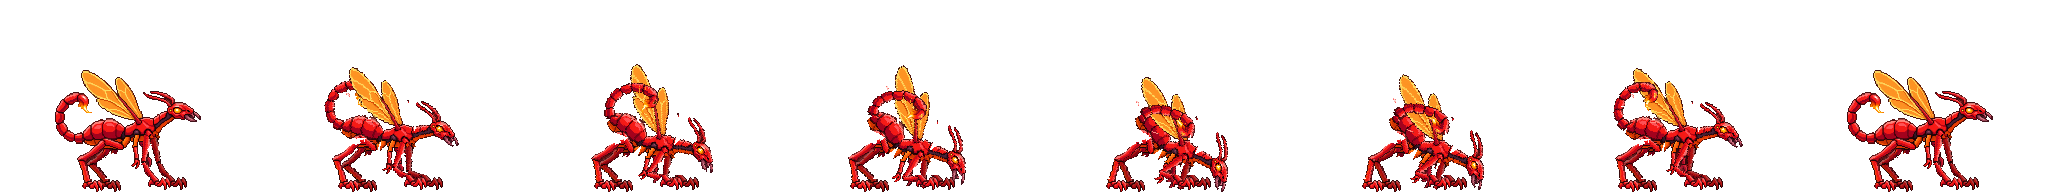
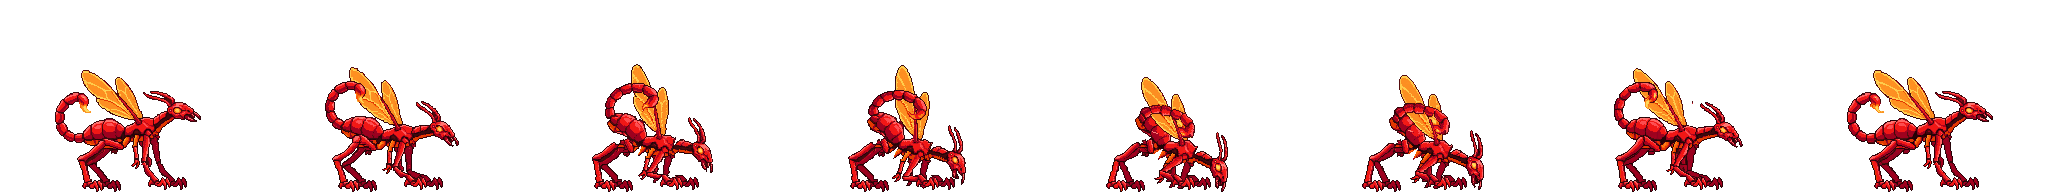
Myrmex light3: the cleaned hissing-cat sting
Swap the raw rig sting for the PixelLab-cleaned strip and document the
light combo and the rig's new jaw, pitch, lean, waist and tail_front.

Claude-Session: https://claude.ai/code/session_01SJ9dCzYTEqnwmvGSao2RYs

diff --git a/README.md b/README.md
@@ -81,7 +81,7 @@ Score is earned points minus actual HP damage penalty, including healed damage. 
 
 **Belial Stage 2 art (just started, the base form):** `belial-s2.png` is the low-slung striped reptile (grey-green hide, dark umber-grey tiger stripes and blade spines down a long tail, green acid gland on the neck, drooling green acid), keyed from the transparent render with `tools/key_render.py` (grid 9.170x9.175 px per art pixel) to a 216x79 sprite at x=20, feet on the bottom row of a 256x192 frame (`BL2_NATIVE`: scale 216/256, anchor 128). As with Mogurodon the Stage 2 design is the base form; Stage 1 and Stage 3 have their own complete forms (below). `belial-s2-idle` (breathing loop, 8 frames, 8 fps, closed on the base) and `belial-s2-walk` (stalking crawl, one full four-leg stride in 16 frames at 15 fps, closed on the base) are PixelLab strips generated from the base, then fill_pinholes/remove_specks. `belial-s2-run` (Shift / double-tap, 8 frames at 15 fps like Tlézcatl's) is a low bounding gallop generated from the base with it as the end pose (seed 7; seed 0 barely left the walk for its first half and threw dust ahead of the snout): the body gathers and stretches, frames 4-5 are a 4-5px flight phase, dust kicks back, the tail streams straight out; then fill_pinholes/remove_specks. Jump (`belial-s2-jump-rise/air/land`, 9 frames at 24 fps, a 4-frame loop at 8 fps, 5 frames at 20 fps like the other forms): rise is a roll from the base (seed 7; seed 0 barely coiled the tail) that crouches, curls the tail up over his back and springs off all four legs into a level, legs-tucked leap. Air is frames 0,1,2,1 of a 4-frame roll from the rise's last frame (seed 0). Land is frames 1-4 of a roll from that same frame with the base as end pose (seed 7): legs reach down with the tail flung up, then he squashes low. Frame 4 already matched the base, and the exact base closes the strip. All three: remove_specks, bottom_align, fill_pinholes. Crouch (5 frames at 22 fps, a 4-frame loop at 6 fps, then the reverse, like the other forms): `belial-s2-crouch-down` is a roll from the base (seed 0) that splays the legs and presses belly and chin flat with the spines laid back and the tail flat, 79px tall down to about 54. `belial-s2-crouch` is a breathing loop lying flat, a roll from that last pose with it as the end pose (seed 7). PixelLab returned a clean 4-frame cycle that starts on the flat pose. `belial-s2-crouch-up` is crouch-down reversed. Cleanup: remove_specks, bottom_align, fill_pinholes. Form width 120. Light combo (`belial-s2-light1..3`, 8 frames each at 24/21/20 fps, `once`): forward claw swipe, backhand rake, and a lunging bite that snaps shut in a puff of acid. They're generated from the base shifted flush left (`BL2_LEFT`, sprite at x=0, anchor 108) for 40px of reach, with the base as first and last frame. Light1 and light3 are re-rolls (seed 45), because the first rolls' slash arc and acid spray were cut off by the right edge of the frame. Then fill_pinholes/remove_specks. Heavy, a scorpion tail strike (`belial-s2-heavy-rear/hold/slam`: 5 frames at 20 fps, a 4-frame loop at 10 fps, 8 frames at 16 fps; 256x256 frames with the left-shifted base): the tail curls up over his back with the blade poised above his head, quivers while K is held, then whips over his head and slashes down in front of the snout. The hold and slam are generated from rear's last frame; the slam ends on the base, and its first frame (a copy of the hold pose) is dropped so the strike starts the moment K is released. The slash's outer edge grazes the frame's right edge on slam frames 2–3. **Palette:** the renders and strips came out salmon-pink with red spines. `tools/belial_recolor.py` (helpers in `tools/recolor_hls.py`) remaps every Belial strip: pink hide (warm hue, saturation under .57) to grey-green, red spines and stripes (saturation .57+) to dark umber-grey, and slash smears to acid green. A smear is a warm region mostly ringed by transparency with almost no black outline; pixels within 2px of outline stay body, so spines swallowed by the tail-strike arc keep their colour. Acid, claws, eye, outline and the tan dust (hue 42) are untouched. New strips are generated from the recoloured base, so they shouldn't need it, but if a PixelLab roll drifts back toward pink, run it through the same script. Acid Vomit art (`belial-s2-vomit-start/aim/end`, registered as `vomitStart`/`vomitAim`/`vomitEnd`; the mechanic isn't wired up yet): start is frames 1, 2, 4, 5 and 8 of a heave-and-gape roll (seed 0, recoloured); the rolls' own acid streams are skipped, since the game draws the stream. Aim is seven gape frames from tucked down to neck raised (a chin-tuck roll and a silent-roar head-raise roll; prompts that mention vomiting make PixelLab draw a stream). Rotation-matching the head didn't work on these (it locks onto the skull and neck, and the mouth opening barely turns as the neck rises), so `angles` [-25,-12,0,8,18,32,45] are set from the head-and-neck pose, and `mouth` is the midpoint of the jaw tips read off a grid. End is a gag-and-snap roll (seed 7) closed on the shifted base. **Acid Vomit (gameplay, `COMBAT.vomit*`/`corrode*` in `src/config.ts`):** Belial's grounded L. It runs on the Flame Jet's state machine (`jet`, with `jetFuel` as his gland pressure), branching where it differs: `spew()` traces a ballistic arc from the mouth point at a launch speed set by the pressure (`vomitSpeed` empty→full), so as the gland drains the arc sags and the landing walks back toward him. Untouched it lobs at `vomitRest` (15°); W/S tilt it from -25° to 55°. The stream pierces troops and aircraft, intercepts rockets, and stops on the first building (wall or roof) or the street, where it splashes (`vomitSplash`) and leaves an acid puddle (`acid` pools). Running the gland dry plays the gag and locks it until `vomitRelight`. Corrosion (`corr` in `game.ts`) stacks per target with contact time (`corrodePerStack`, up to 3); corroded targets take `corrodeDamage` x stacks per tick and `corrodeVuln` x stacks more from every player hit (buildings via `hit()`, units via a `hitUnit` wrapper round military's, the rival via `strikeRival`); tanks and APCs also lose `corrodeArmor`. A fully corroded building gives way at `corrodeBreak` (25%) HP. He walks at `vomitSlow` (half speed) while spewing. Tests: `tests/belial-vomit.test.ts`. Climb (`belial-s2-climb-grab/climb/climb-punch/climb-mantle`, 256x256 with the base padded to 256 tall, `BL2_NATIVE`): gecko cling, body vertical with the head up and the tail hanging to the bottom row, the gripping claws on the wall line at frame x=171 (hitbox edge, 24 world units out at k=120/216). Grab is frames 0-3 and 8 of a rear-and-leap roll (seed 0; seed 7 painted a wall), eased 81px left and 33px down onto the wall line (the vertical ease is capped so feet never leave the frame). The loop (closed on the cling), punch (acid-green flash on impact frame 4, so `impact:4`) and mantle (ends on the base, starts 26px back for the roof slide, 0.3 x 48 units) are seed 0 rolls from the placed cling frame. PixelLab drew thin dark drool streaks and a roof-ledge line, so 1px-wide dark runs (vertical 4+, horizontal 6+) were erased, then fill_pinholes, remove_specks (MAX 6) and optimize_sprites. No recolour needed. Grab/carry/throw in the jaws (`belial-s2-grab/carry/carry-walk/throw`, 256x256 from the left-shifted base, `BL2_LEFT`, so the head has room to whip): the grab (seed 0) gapes, drops the head to the street to bite, and hauls the neck up high with the jaws clamped; carry (strain loop) and carry-walk (one four-leg stalking stride, head held up) loop from that pose; the throw is frames 2-8 of a roll from it (frames 0-1 just held the pose, and the prop launches on the key press): the jaws spring open and the head whips forward and down with an acid-green swing arc that grazes the frame's right edge on frames 2-4, ending on the shifted base. Detached acid drops and street puddles were removed with remove_specks MAX 120 before carry, carry-walk and throw were generated from the lift frame. These strips set `bite`: each `hold` point is where the jaws close (measured on the snout, frames 0-5 on the street), and the game (`holdBite`) grips the prop by its near end there, its centre 0.3 of its own width ahead at mid-height, and never lets it sink below the feet line. A centred prop hid the whole head. **Acid Pounce (his Slam):** art is 256x256 from the base padded 64px on top (`BL2_NATIVE`). `belial-s2-dive` is frames 0, 3, 4 and 6 of an 8-frame roll from the jump-air pose padded the same way (seed 0): he gathers, then tips into a steep nose-down pounce, claws splayed, jaws open, tail whipped up; bottom-aligned, fill_pinholes, remove_specks, held on the last frame. `belial-s2-slam-land` is frames 1-7 of a roll from that plunge with the padded base as end pose (seed 0; seed 7's splash was weaker) plus the exact base: claws and chest hit in an acid splash both ways, a belly-flop with spatter, and he pushes back up; fill_pinholes only, so the droplets survive. Gameplay (`MOVE.pounce*`): on top of the shared slam, everything the landing strikes (roof under him, buildings in the radius, units, the rival) is soaked straight to `pounceStacks` (2) of corrosion, 3 from a `pounceFullPower` drop, applied after the hit so the slam itself isn't boosted; a street landing lays acid puddles across `pouncePoolWidth` x his body width (x power, capped 1.5). Tests in `tests/belial-vomit.test.ts`. **Acid Deluge (Belial's Ultimate, `COMBAT.deluge*`):** art: `belial-s2-ult-charge/roar/pound/settle`, 256x256 frames from the base padded to 256 tall (`BL2_NATIVE`). Charge is 13 frames at 20 fps (= `delugeCharge`, a roll from the base, seed 0): the gland balloons up, he plants and heaves, acid dribbling. Roar is 9 frames at 18 fps from the last charge frame (seed 7; prompted as a silent roar at the sky, so PixelLab draws no stream): he rears straight up onto hind legs and tail, jaws open at the sky, the geyser firing on impact frame 4. Pound is a 4-frame pumping hold closed on the roar's last frame. Settle is frames 2-7 of a roll back to the base plus the exact base (7 frames at 14 fps). `mouth` (135,100) is the red mouth interior's centre nudged up to the jaws. Cleanup: remove_specks, fill_pinholes, bottom_align. Belial's `pound` points at his heavy slam, since S+J otherwise falls back to `ultPound`. Gameplay (`tickDeluge`/`tickRain` in `game.ts`): planted; on the roar's impact frame the geyser goes up and spouts until the settle starts. Every drop is scheduled then: `delugeDrops` spread over the spout, `delugeDelay` later, landing at random out to `delugeRange` x sqrt(stage scale) on alternating sides. Drops fall from the top of the view and hit the topmost thing under them (aircraft, troops, vehicles, growths, the stronghold crystal, the rival), else the roof below, else the street (a `delugeSplash` splash plus a Deluge puddle, capped at `delugePuddleCap` apart from the stream's). Each hit soaks the target with `delugeSoak` corrosion stacks before `delugeDamage` lands, so a building in the downpour is fully corroded within a few drops and gives way at `corrodeBreak`. Deluge corrosion (`ult` on the corrosion record, which a soak also sets on corrosion the stream laid) ticks as Ultimate damage, so nothing it eats or knocks down refills the meter. The rain outlives the Ultimate until the last drop is down; while it falls the screen tints green. Tests: `tests/belial-deluge.test.ts`.
 
-**Myrmex Stage 2 art (just started, the base form):** `myrmex-s2.png` is the red winged scorpion-ant (segmented ant body, scorpion tail curled up behind with a flaming stinger, two translucent orange wasp wings, long neck and narrow skull with a glowing yellow eye, antennae and mandibles, two long digitigrade hind legs, a small dangling middle pair and two long clawed forelegs), keyed from the transparent render with `tools/key_render.py --square` to a 146x122 sprite at x=55, feet on the bottom row of a 256x192 frame (`MX2_NATIVE`: scale 146/256, anchor 128). The render's x grid measured 8.010 px but the y rhythm locked onto a false 8.98 px harmonic that squashed him 11%; `--square` (new) reuses the x period for y and still measures the y phase. The render drew the far foreleg bent up with its claw in the air, and PixelLab walks (PixMiniMax at 16 and 8 frames, then a scripted skeleton walk) either bunched every foot under his chest or read as a shuffle with the whole sprite shimmering, so his strips come from a cutout rig. `tools/myrmex_s2_rig.py` cuts the keyed sprite (`tools/myrmex-s2-native.png`, kept as the rig's source) into rigid pieces and poses its own pixels: each walking leg in three (thigh/shin/foot, upper/lower/claws); the far legs dropped and rebuilt as copies of the near ones darkened to 72%, drawn behind the body (which also plants the far foreleg); the two small middle legs as pendulums hinged under the belly plates; the tail as a chain of eight plates jointed on the seams down the curl (stinger flame on the bulb); the wings (all the orange membrane and its outline, split by colour where it overlaps the tail curl) and the head/neck hinged on their joints; the rest is the core. Joints come from two-bone IK with the source's bone lengths, and pieces rotate RotSprite-style (Scale2x to 8x, rotate, sample centres). The walk (16 frames at 15 fps) is big sweeping bug steps in a lateral sequence (near hind, near fore, far hind, far fore, a quarter cycle apart): each foot planted for 60% of the cycle sliding back 48px, then lifted up to 18px in an eased high arc with the toes tipped down; the forelegs (almost straight in the art) are planted 16px back and step two thirds as far. On top: a 2px bob twice a cycle, the middle legs paddling +-16 degrees out of phase with a flick, a wave running down the tail (3 degrees a joint, each 0.55 rad behind the last) so the stinger whips, the head nodding with each footfall and the wings fluttering. The run (`myrmex-s2-run`, Shift / double-tap, 12 frames at 20 fps) is a low scuttling trot: diagonal pairs together (near hind with far fore), 30px strides with each foot planted 42% of the cycle (so a brief flight phase on frame 5), the body 6px lower with a 3px dip per footfall pair, each tail joint held 3 degrees uncurled (which lifts the stinger) with the wave running twice a cycle, the head thrust forward and down, a fast wing buzz and a fast middle-leg paddle. Gait numbers live in the rig's MODES table. The idle (8 frames at 8 fps) keeps the feet planted while the body breathes 1px (knees and elbows flex), with a slow tail curl, head bob, wing twitch and middle-leg sway. All three strips were then fill_pinholes / remove_specks (MAX 3) and redrawn by PixelLab's `/edit-animation-v2` via `tools/pixellab_edit_animation.py` (seed 0; it saves after every batch and retries a batch refused as "against policy", which happened once on the run for no visible reason; prompt to clean outlines and keep pose, design and colours; 4 frames a request, every pixel locked to the native sprite's palette so the batches match), which keeps the rig's motion with clean outlines instead of rotation jaggies. `myrmex-s2.png` is the cleaned idle's first frame (the rest pose). **Wings (his jump):** he can't fly, but `MOVE.myrmex*` in `src/config.ts` gives him a jump `myrmexJump` (1.12x) higher, `myrmexAirJumps` (2) more wing-beat jumps in the air (Space, each `myrmexAirJump` 0.78 of a ground launch, refilled on landing or grabbing a wall), and a float: gravity x0.8 going up and x0.45 coming down, falling no faster than `myrmexFallMax` (260; `myrmexGlideMax` 120 while Space is held), both x sqrt(stage scale). A slam dive ignores all of it. A full triple jump is about 2.5s of airtime. The jump art is posed by hand in the rig's JUMP table (the body stays put and the feet lift toward it; physics moves the sprite): `myrmex-s2-jump-rise` (8 frames at 20 fps, once) crouches with the wings cocked, springs on a downstroke and tucks the legs; `myrmex-s2-jump-air` (6-frame loop at 18 fps) buzzes the wings with the legs dangling and the tail rippling; `myrmex-s2-jump-flap` (6 frames at 20 fps, once, played on each air jump as `jumpFlap`) throws the wings up high and drives them down as the legs kick back; `myrmex-s2-jump-land` (5 frames at 20 fps, once) soaks up the landing. Like the walk, they were fill_pinholes / remove_specks (MAX 3) and redrawn by `/edit-animation-v2` with the native palette locked (one rise batch was refused as against policy and went through on seed 1); the landing's last frame is the cleaned base still, since a lone frame can't be sent (the tool now splits frames into even batches). Tests: `tests/myrmex-jump.test.ts`. Crouch (shared crouch timing: 5 frames at 22 fps, a 4-frame loop at 6 fps, then the reverse): `myrmex-s2-crouch-down` eases from the rest pose into a low crouch, 122px tall down to about 80 (0.65), the body 24px lower with the hind feet splayed 12px back and the forefeet 10px forward, the middle legs folded 55 degrees back flat under the belly, the wings swept back 14 degrees (further hid the stinger) and the head dipped; `myrmex-s2-crouch` breathes 1px with a slow tail ripple and a wing twitch; `myrmex-s2-crouch-up` is crouch-down reversed. Posed in the rig (`--only crouch` renders just these) and cleaned by `/edit-animation-v2` like the rest. No other Myrmex art exists, so it is registered as his base form and every stage draws it. Form width 120.
+**Myrmex Stage 2 art (just started, the base form):** `myrmex-s2.png` is the red winged scorpion-ant (segmented ant body, scorpion tail curled up behind with a flaming stinger, two translucent orange wasp wings, long neck and narrow skull with a glowing yellow eye, antennae and mandibles, two long digitigrade hind legs, a small dangling middle pair and two long clawed forelegs), keyed from the transparent render with `tools/key_render.py --square` to a 146x122 sprite at x=55, feet on the bottom row of a 256x192 frame (`MX2_NATIVE`: scale 146/256, anchor 128). The render's x grid measured 8.010 px but the y rhythm locked onto a false 8.98 px harmonic that squashed him 11%; `--square` (new) reuses the x period for y and still measures the y phase. The render drew the far foreleg bent up with its claw in the air, and PixelLab walks (PixMiniMax at 16 and 8 frames, then a scripted skeleton walk) either bunched every foot under his chest or read as a shuffle with the whole sprite shimmering, so his strips come from a cutout rig. `tools/myrmex_s2_rig.py` cuts the keyed sprite (`tools/myrmex-s2-native.png`, kept as the rig's source) into rigid pieces and poses its own pixels: each walking leg in three (thigh/shin/foot, upper/lower/claws); the far legs dropped and rebuilt as copies of the near ones darkened to 72%, drawn behind the body (which also plants the far foreleg); the two small middle legs as pendulums hinged under the belly plates; the tail as a chain of eight plates jointed on the seams down the curl (stinger flame on the bulb); the wings (all the orange membrane and its outline, split by colour where it overlaps the tail curl) and the head/neck hinged on their joints; the rest is the core. Joints come from two-bone IK with the source's bone lengths, and pieces rotate RotSprite-style (Scale2x to 8x, rotate, sample centres). The walk (16 frames at 15 fps) is big sweeping bug steps in a lateral sequence (near hind, near fore, far hind, far fore, a quarter cycle apart): each foot planted for 60% of the cycle sliding back 48px, then lifted up to 18px in an eased high arc with the toes tipped down; the forelegs (almost straight in the art) are planted 16px back and step two thirds as far. On top: a 2px bob twice a cycle, the middle legs paddling +-16 degrees out of phase with a flick, a wave running down the tail (3 degrees a joint, each 0.55 rad behind the last) so the stinger whips, the head nodding with each footfall and the wings fluttering. The run (`myrmex-s2-run`, Shift / double-tap, 12 frames at 20 fps) is a low scuttling trot: diagonal pairs together (near hind with far fore), 30px strides with each foot planted 42% of the cycle (so a brief flight phase on frame 5), the body 6px lower with a 3px dip per footfall pair, each tail joint held 3 degrees uncurled (which lifts the stinger) with the wave running twice a cycle, the head thrust forward and down, a fast wing buzz and a fast middle-leg paddle. Gait numbers live in the rig's MODES table. The idle (8 frames at 8 fps) keeps the feet planted while the body breathes 1px (knees and elbows flex), with a slow tail curl, head bob, wing twitch and middle-leg sway. All three strips were then fill_pinholes / remove_specks (MAX 3) and redrawn by PixelLab's `/edit-animation-v2` via `tools/pixellab_edit_animation.py` (seed 0; it saves after every batch and retries a batch refused as "against policy", which happened once on the run for no visible reason; prompt to clean outlines and keep pose, design and colours; 4 frames a request, every pixel locked to the native sprite's palette so the batches match), which keeps the rig's motion with clean outlines instead of rotation jaggies. `myrmex-s2.png` is the cleaned idle's first frame (the rest pose). **Wings (his jump):** he can't fly, but `MOVE.myrmex*` in `src/config.ts` gives him a jump `myrmexJump` (1.12x) higher, `myrmexAirJumps` (2) more wing-beat jumps in the air (Space, each `myrmexAirJump` 0.78 of a ground launch, refilled on landing or grabbing a wall), and a float: gravity x0.8 going up and x0.45 coming down, falling no faster than `myrmexFallMax` (260; `myrmexGlideMax` 120 while Space is held), both x sqrt(stage scale). A slam dive ignores all of it. A full triple jump is about 2.5s of airtime. The jump art is posed by hand in the rig's JUMP table (the body stays put and the feet lift toward it; physics moves the sprite): `myrmex-s2-jump-rise` (8 frames at 20 fps, once) crouches with the wings cocked, springs on a downstroke and tucks the legs; `myrmex-s2-jump-air` (6-frame loop at 18 fps) buzzes the wings with the legs dangling and the tail rippling; `myrmex-s2-jump-flap` (6 frames at 20 fps, once, played on each air jump as `jumpFlap`) throws the wings up high and drives them down as the legs kick back; `myrmex-s2-jump-land` (5 frames at 20 fps, once) soaks up the landing. Like the walk, they were fill_pinholes / remove_specks (MAX 3) and redrawn by `/edit-animation-v2` with the native palette locked (one rise batch was refused as against policy and went through on seed 1); the landing's last frame is the cleaned base still, since a lone frame can't be sent (the tool now splits frames into even batches). Tests: `tests/myrmex-jump.test.ts`. Crouch (shared crouch timing: 5 frames at 22 fps, a 4-frame loop at 6 fps, then the reverse): `myrmex-s2-crouch-down` eases from the rest pose into a low crouch, 122px tall down to about 80 (0.65), the body 24px lower with the hind feet splayed 12px back and the forefeet 10px forward, the middle legs folded 55 degrees back flat under the belly, the wings swept back 14 degrees (further hid the stinger) and the head dipped; `myrmex-s2-crouch` breathes 1px with a slow tail ripple and a wing twitch; `myrmex-s2-crouch-up` is crouch-down reversed. Posed in the rig (`--only crouch` renders just these) and cleaned by `/edit-animation-v2` like the rest. Light combo (bite, bite, sting; 8 frames each at the shared 24/21/20 fps): `myrmex-s2-light1` rears back with the jaw opening, lunges 16px and snaps shut; `myrmex-s2-light2` bites lower and further (nose tipped down, jaws gaping wider), then wrenches the head up; `myrmex-s2-light3` is a hissing-cat sting: he tips nose-down and bends the abdomen up at the waist (rear up, face down, back arched), arches the tail over his back and whips the stinger forward over his lowered head. For these the rig gained a hinged lower mandible (`jaw`), body `pitch` (about the belly, carrying every attached piece), `lean` (body forward, feet planted), a waist hinge (`abd`: the abdomen carries the tail and the hind-leg roots) and `tail_front` (tail drawn over the body and wings). The tail is too short to sting out past his face from a level stance; raising the rear is what lets it reach forward over his head. Cleaned by `/edit-animation-v2` like the rest. No other Myrmex art exists, so it is registered as his base form and every stage draws it. Form width 120.
 **Belial Stage 1 art (complete):** `belial-s1.png` is a lean juvenile of the Stage 2 design: slimmer body, short nub spines, thin whip tail, the neck gland reduced to green drool, same grey-green hide and umber tiger stripes. There was no render for it, so it's a PixelLab Pixen edit (`/edit-image-pixen`, seed 7) of the Stage 2 base shrunk to 62% (Lanczos, feet on the bottom row) with a prompt for a younger, smaller, leaner version that keeps the low head, slitted eye and teeth (a first "hatchling" prompt came out big-eyed and cute). It's a 145x54 sprite at x=57, feet on the bottom row of a 256x192 frame (`BL1_NATIVE`: scale 145/256), fill_pinholes only. Registered as `BELIAL_S1` (`stages[1]`, width 120, `borrow`), so every move without Stage 1 art plays the Stage 2 strip. `belial-s1-idle` (breathing loop, 8 frames at 8 fps: head dips, drool drips and falls) and `belial-s1-walk` (stalking crawl, one full four-leg stride in 16 frames at 15 fps, like Stage 2's) are seed 7 PixelLab rolls from the base with it as the end pose (seed 0 was close but steppier); subject "a young lean grey-green reptile kaiju with dark umber-grey tiger stripes, small spikes along its back, a long thin tail, and green acid drool", pose "standing low on all four legs facing right, head held level". fill_pinholes only: remove_specks would eat the falling acid drops. The walk isn't bottom-aligned (it rides 1-2px high mid-stride, like Stage 2's). `belial-s1-run` (8 frames at 15 fps) is a low bounding gallop rolled from the base with it as the end pose (seed 0; seed 7 sat on the base pose for its first three frames): the body stretches long, frame 4 is the flight phase, dust kicks back; fill_pinholes, remove_specks. Jump (`belial-s1-jump-rise/air/land`, 9 frames at 24 fps, a 4-frame loop at 8 fps, 5 frames at 20 fps like the other forms): rise is a roll from the base (seed 7; seed 0 stood up tall mid-squat) that squats, coils the tail up over his back and springs into a level, legs-tucked leap. Air is frames 0,1,2,1 of a 4-frame roll from the rise's last frame (seed 0). Land is frames 1-4 of a roll from that frame with the base as end pose (seed 7) plus the exact base: legs reach down with the tail flung up, then he squashes and stands. Crouch (5 frames at 22 fps, a breathing loop at 6 fps, then the reverse): `belial-s1-crouch-down` is a roll from the base (seed 7; seed 0 grew the spines to adult size) that splays the legs and presses belly and chin flat, 54px tall down to about 32. `belial-s1-crouch` is a roll from that last pose with it as the end pose (seed 7); all five frames are kept, since the fifth is the in-between that closes the loop smoothly. `belial-s1-crouch-up` is crouch-down reversed. Jump and crouch strips: remove_specks (MAX 40, so detached acid drops don't throw off the alignment), bottom_align, fill_pinholes. Light combo (`belial-s1-light1..3`, 8 frames each at 24/21/20 fps, `once`): forward claw swipe, backhand rake, and a gaping lunge that snaps shut in a puff of acid. They're generated from the base shifted 40px left (`BL1_LEFT`, sprite at x=17), with it as first and last frame. Light1 and light3 are seed 0. Light2 is a re-roll (seed 45) with a prompt asking for a thin streak: seed 0 left a grey blob in the slash and seed 7's arc swallowed him. Light3's tail tip grazes the left edge on frame 2 (3px) and its spray the right on frames 5-6. fill_pinholes, remove_specks. Heavy, the scorpion tail strike (`belial-s1-heavy-rear/hold/slam`: 5 frames at 20 fps, a 4-frame loop at 10 fps, 8 frames at 16 fps; 256x256 frames with the shifted base padded 64px on top): rear is a roll from the base (seed 0; seed 7's tail barely cleared his back) that curls the tail up and forward over his back. Hold (seed 0) quivers it, a loop closed on the rear's last frame. Slam is frames 1-8 of a roll from that frame ending on the base (seed 0; seed 7 wound up for two more frames before striking): the tail whips over his head and slashes down in front of the snout in an acid splash, spatter, and he straightens. Rear had its detached drool drop removed (remove_specks MAX 40) before hold and slam were rolled from it. All three: fill_pinholes, remove_specks, bottom_align (PixelLab left them 1px high). Acid Vomit (`belial-s1-vomit-start/aim/end`, 5 frames at 20 fps, 7 aim frames, 4 frames at 16 fps, `BL1_LEFT`): start is frames 1, 2, 4, 5 and 8 of a heave-and-gape roll from the shifted base (seed 0, chosen over seed 7 because its glow swells the throat like Stage 2's gland rather than the belly); frames 6-7 drew their own acid blast and are skipped, and the detached ring of spray left on frame 8 was erased (remove_specks MAX 600), since the game draws the stream. Aim is seven gape frames rolled from that gape (seed 0 both ways; seed 7's raise dripped a stream): frames 2 and 1 of a chin-tuck roll, the gape itself, and frames 2, 4, 6 and 8 of a silent-roar neck-raise roll. As on Stage 2, the mouth opening barely turns as the neck rises, so `angles` [-25,-12,0,8,18,32,45] follow the head-and-neck pose; the tucked frames really point about -30° and -15°, and a deeper -42° tuck was dropped since the aim stops at -25°. `mouth` is the midpoint of the jaw tips read off a grid (a script that took the biggest acid-green blob found the throat glow instead). End is frames 1-3 of a gag-and-snap roll from the gape closed on the shifted base (seed 0, its detached acid crescent erased; seed 7 left splatter stuck to the head) plus the exact shifted base. remove_specks (MAX 40 on aim), fill_pinholes. Acid Pounce: art is 256x256 from the base padded 64px on top (`BL1_NATIVE`). `belial-s1-dive` is frames 0, 5, 7 and 8 of an 8-frame roll from the Stage 1 jump-air pose padded the same way (seed 7; seed 0 reared nose-up for most of the roll before tipping over): he gathers, then tips into a steep nose-down plunge, claws splayed, jaws open, tail whipped up; bottom-aligned, fill_pinholes, held on the last frame. `belial-s1-slam-land` is frames 1-7 of a roll from that plunge with the padded base as end pose (seed 0; seed 7 hung in the air a frame longer before the splash) plus the exact padded base: claws and chest hit in a big acid splash both ways, a belly-flop in the spatter, and he pushes back up. fill_pinholes only, so the droplets survive. The splash spans the frame and grazes its right edge (2-10px) on frames 1-4. Climb (`belial-s1-climb-grab/climb/climb-punch/climb-mantle`, 256x256 with the base padded to 256 tall, `BL1_NATIVE`): a vertical gecko cling, head up, tail hanging to the bottom row, the gripping claws on the wall line at frame x=158 (the hitbox edge, 24 world units out at k=120/145). Grab is frames 0-3 and 8 of a rear-and-leap roll from the padded base (seed 0; seed 7 painted a wall), detached drool dropped, eased 46px left and 99px down onto the wall line (ease 0, .1, .4, .75, 1, so he doesn't slide while still on the ground; the vertical ease is capped so feet never leave the frame). The loop (closed on the cling; the tail lifts up to 9px off the bottom mid-loop), punch (acid-green flash from frame 5, so `impact:5`) and mantle (ends on the exact padded base, starts 17px back for the roof slide, 0.3 x 48 units, easing to 0) are seed 0 rolls from the placed cling frame. PixelLab drew a wall and roof outline on mantle frames 3-6 in two pale shades, 2px wide: detached pieces were removed, 1-2px-wide straight runs of those colours erased, and the stretch crossing his hind leg on frame 3 erased by hand. fill_pinholes, remove_specks (MAX 6). Grab/carry/throw in the jaws (`belial-s1-grab/carry/carry-walk/throw`, 256x256 from the left-shifted base padded 64px on top, `BL1_LEFT`): the grab (seed 7; seed 0 lifted sooner and lower) gapes, drops the head to the street to bite, and hauls the neck up with the jaws clamped; acid puddles PixelLab left on the street under the jaws (frames 2-6) were erased. Carry (strain loop, 4 frames at 6 fps) and carry-walk (one four-leg stalking stride, head held up, 8 frames at 10 fps) are seed 0 loops from the lift frame. The throw is frames 2-7 of a roll from it (seed 7; seed 0 glitched a brown crest onto the head) plus the exact shifted base: the jaws spring open in an acid burst (detached arcs erased, remove_specks MAX 600) and he settles. Frames 0-1 only held the pose, and the prop launches on the key press. `bite` is set; each `hold` is where the jaws close, read off a grid: the bite spot on the street for frames 0-5 (around (160,248)), then following the jaws up to (141,204). Carry and carry-walk use the same offset from the snout tip as the lift frame. Acid Deluge, his Ultimate (`belial-s1-ult-charge/roar/pound/settle`, 256x256 from the base padded to 256 tall, `BL1_NATIVE`): charge is 13 frames at 20 fps (= `delugeCharge`), a roll from the base (seed 7; seed 0's sac ballooned so big it hunched his whole body). The throat swells into a huge glowing sac as he plants and heaves. Roar is 9 frames at 18 fps from the last charge frame (seed 0, prompted as a silent roar at the sky; its detached acid spray was erased, while seed 7's spray was fused to the mouth): he rears straight up onto hind legs and tail, jaws open at the sky. He's fully reared on frame 2, so `impact:2` (Stage 2's is 4), and the geyser goes up 0.11s into the roar instead of 0.22s. Pound is a 4-frame pumping hold closed on the roar's last frame (seed 0). Settle is frames 2-7 of a roll back to the base (seed 0) plus the exact base, 7 frames at 14 fps. `mouth` (112,148) is the midpoint of the jaw tips on every reared frame and the hold. `pound` (S+J) points at his Stage 1 heavy slam, as on Stage 2. Cleanup: remove_specks, bottom_align, fill_pinholes. With this, Belial's Stage 1 form has every move; `borrow` stays as a safety net.
 **Belial Stage 3 art (complete, registered as `stages[3]`):** `belial-s3.png` is the adult: hunched up on his hind legs with clawed arms forward, the Stage 2 grey-green hide and umber-grey stripes, big umber blade spines down the back and tail, clusters of pink crystal shards between the back spines and one on the arm, a lime acid gland on the neck and lime drool. It's the user's transparent render (1672x941) keyed with `tools/key_render.py --period 8.04`: the automatic measurement locked onto the 4.09px half-period on x (and 7.34 on y), and the render's stair-steps are about 8px both ways, so the period is forced square (8.04 is the x spectrum's own peak) and only the phase is measured. 200x113 sprite at x=28, feet on the bottom row of a 256x192 frame (`BL3_NATIVE`: scale 200/256). The render came out olive with saturated rust spines, an orange gland and ~6000 colours of glossy shading, so it didn't read as the same creature; `tools/belial_s3_restyle.py` remaps it onto the Stage 2 palette by class (hide to hue 95/sat .14, spines and stripes to hue 24/sat .22, gland/drool/claws to Stage 2's lime, hue 68/sat .7; crystals and outline untouched, lightness kept) and median-cuts it to 48 colours (45 used) to flatten the gloss. Run it on the keyed render, not on strips. Registered as `BELIAL_S3` (`stages[3]`, width 120); every move has its own strip, and `borrow` stays as a safety net for strips added to Stage 2 later. `belial-s3-idle` (8 frames at 8 fps) and `belial-s3-walk` (one full stride in 16 frames at 15 fps) are seed 0 PixelLab rolls from the restyled base with it as the end pose; they keep the palette without a recolour (hide median hue 93-94, sat .14). Subject "a huge muscular semi-upright grey-green reptile kaiju with dark umber-grey stripes, large umber-brown blade spines down its back and tail, pink crystal shards growing between the back spines, a yellow-green acid gland on the neck and yellow-green acid drool", pose "standing hunched on its hind legs facing right, clawed arms held forward, long tail straight out behind". fill_pinholes only, so the drool drops survive; the walk rides 1-2px high mid-stride like the other forms'. `belial-s3-run` (8 frames at 15 fps) is skeleton-posed, like Tlézcatl Stage 3's: the first text-prompted roll limped (each foot stepped around its own spot and the arms didn't alternate). `tools/belial-s3-skeleton.json` is PixelLab's `/estimate-skeleton` on the base pasted at y=64 in a 256x256 frame; `tools/belial_s3_run_poses.py` (adapted from `tlezcatl_s3_run_poses.py`; hips pulled onto one pelvis, ankle line y=243, stride centre x=150, thigh/shin 22/21) runs both feet on the same cycle half a beat apart, with a flight phase at full extension, the body pitched forward 8° and sinking over the planted leg, and the arms pumping opposite the legs. Rendered with `tools/pixellab_skeleton.py` (`/animate-with-skeleton-v3`, seed 7; seed 0 painted the far leg as a smeared blob on frames 5-6), the bottom 192 rows cropped so it lines up with `BL3_NATIVE`, fill_pinholes. Jump (`belial-s3-jump-rise/air/land`, 9 frames at 24 fps, a 4-frame loop at 8 fps, 5 frames at 20 fps like the other forms): rise is a roll from the base that sinks onto bent legs with the arms swung back and springs off both feet into a level, legs-tucked leap; air is frames 0,1,2,1 of a 4-frame roll from the rise's last frame (only the tail sways); land is frames 1-4 of a roll from that frame with the base as end pose (reaches down, hits with the tail flung up, squashes) plus the exact base. Crouch (5 frames at 22 fps, a 4-frame breathing loop at 6 fps, then the reverse): `belial-s3-crouch-down` drops from the hunch onto all fours with belly and chin low, 113px tall to about 92 (the spine crest and crystals stay up; the hitbox is `crouchHeight`, not the art); `belial-s3-crouch` is a breathing loop rolled from that last pose with it as the end pose; `belial-s3-crouch-up` is crouch-down reversed. Jump and crouch: remove_specks, bottom_align, fill_pinholes. All seed 0, one roll each, same subject as the idle. Light combo (`belial-s3-light1..3`, 8 frames each at 24/21/20 fps, `once`, like Stage 2's), from the base shifted flush left (`BL3_LEFT`, sprite at x=0, 28px more reach). The two swipes use one hand each: text prompts for "near claw" and "far claw" drew both with the same hand, so they're skeleton-posed. `tools/belial_s3_light_poses.py` moves only one arm of the estimated skeleton (shifted 28px left; the estimate marks the RIGHT arm near, z 0, and the LEFT far, z -4), with the upper body pitching into the strike, over 7 frames ending in the base pose. Light1 (`near`) raises the near hand over the head and rakes it down and across with a lime streak; light2 (`far`) shoots the far hand out past the snout from behind the jaw, the body lunging after it, and hooks it down with a lime crescent. Rendered with `/animate-with-skeleton-v3` (seed 0, description mentions the acid-green slash streak) and prefixed with the shifted base. Light1's streak is still fading on its last frame. Light3 (seed 0) snaps shut in a puff of acid. Light3's puff grazes the right edge for a frame or two. Heavy, the scorpion tail strike (`belial-s3-heavy-rear/hold/slam`: 5 frames at 20 fps, a 4-frame loop at 10 fps, 8 frames at 16 fps; 256x256 from the shifted base): his tail ends in a big hooked blade, larger than Stage 1's or 2's. Rear is a seed 7 roll (seed 0 only lifted the blade to the shoulder spines) that swings the tail up into a tall curl with the blade above his head, pointing forward. The hold and slam are rolled from rear's last frame; the slam ends on the shifted base and its first frame (the hold pose) is dropped. The slam's first strike frame drew a pink-and-white arc; that floating smear (2436 px, mostly ringed by transparency, not outline) was recoloured to the lime of the light slashes. The arc grazes the right edge on frames 0-4. Lights and heavy: fill_pinholes, remove_specks. Acid Vomit (`belial-s3-vomit-start/aim/end`, 5 frames at 20 fps, 7 aim frames, 4 frames at 16 fps, `BL3_LEFT`): start is frames 1, 3, 4, 5 and 8 of a heave-and-gape roll from the shifted base (seed 0; the prompt avoids the word vomit so PixelLab doesn't draw its own stream). Its swell frames painted the gland as a flat pure-yellow disc, so those pixels were repainted from frame 0's ribbed gland at 1.45x lightness (a glowing gland, not a sticker); the detached spray on frame 8 was erased (remove_specks MAX 60). Aim keeps the gape at seven head angles: frame 3 of a seed 7 chin-tuck roll (-25), frame 1 of a seed 0 chin-tuck roll (-12; its later frames shut the jaws), the gape itself (0), and frames 2, 4, 6 and 8 of a silent-roar neck-raise roll (8, 18, 32, 45). A skeleton-posed aim pass (`tools/belial_s3_aim_poses.py`, head turned about the neck, neck and shoulders following at 40%) got the angles but closed the jaws and lost the head spines on the high frames, so it wasn't used. `mouth` is the midpoint of the jaw tips read off a 4px grid. End is frames 1-3 of a gag-and-snap roll from the gape closed on the shifted base (tongue lashes out, jaws snap shut) plus the exact shifted base. remove_specks (MAX 40 on aim), fill_pinholes. Acid Pounce (256x256 from the base padded 64px on top, `BL3_NATIVE`): `belial-s3-dive` is frames 0, 3, 5 and 7 of an 8-frame roll from the Stage 3 jump-air pose padded the same way (seed 0): he gathers, then tips into a steep nose-down plunge, claws reaching, jaws open, tail whipped up; bottom-aligned, fill_pinholes, remove_specks, held on the last frame. `belial-s3-slam-land` is frames 1-7 of a roll from that plunge with the padded base as end pose (seed 0) plus the exact base: claws and chest hit, a huge lime splash bursts both ways (frame 2 nearly hides him), splash rings and spatter fly, he belly-flops and pushes back up into the hunch; fill_pinholes only, so the droplets survive. Climb (`belial-s3-climb-grab/climb/climb-punch/climb-mantle`, 256x256 with the base padded to 256 tall, `BL3_NATIVE`): a vertical gecko cling, back to the street, head up, tail hanging to the bottom row, the gripping claws on the wall line at frame x=168 (the hitbox edge, 24 world units out at k=120/200). Grab is frames 0, 2, 3, 4 and 8 of a crouch-and-leap roll from the padded base (seed 0), eased 87px left and 42px down onto the wall line (ease 0, .1, .4, .75, 1; the vertical ease is capped so feet never leave the frame). The loop (closed on the cling) and punch (lime flash from frame 4, so `impact:4`; it spikes past the top of the frame on frames 5-6) are seed 0 rolls from the placed cling. The mantle is a seed 7 roll from the cling to the padded base, shifted 24px back on its first frame and easing to 0 (the roof slide, 0.3 x 48 units): the seed 0 roll drew a dark roof-ledge bar under the claws on frames 1-7, and the re-roll's prompt leaves out "edge" and "rooftop" and asks for no ground or ledge. fill_pinholes, remove_specks (MAX 6). Grab/carry/throw (`belial-s3-grab/carry/carry-walk/throw`, 256x256 from the base padded to 256 tall, `BL3_NATIVE`): he's bipedal now, so he lifts in both claws like Tlézcatl Stage 3, not in the jaws (no `bite`). All generated without any object, since the game draws the prop. The grab (9 frames at 22 fps, seed 0) bends over and scoops both claws along the street, rears up and raises both arms straight up with the claws together overhead, head tipped back. The carry (4-frame strain loop at 6 fps, seed 0) is rolled from that last frame and closed on it. The text-prompted carry-walk limped (the near foot stayed planted while only the far leg swung), so it's skeleton-posed: `tools/belial-s3-carry-skeleton.json` is `/estimate-skeleton` on the lift frame, with the near arm (dropped to his side by the estimate) set by hand up to the joined claws, and `tools/belial_s3_carry_walk_poses.py` runs both feet on one step cycle half a beat apart from the lift pose's own stance, so the 8-frame loop (10 fps) closes on it, with the body bobbing up as the legs pass. The throw (8 frames at 18 fps) is frames 1-7 of a roll from the lift frame to the padded base plus the exact base: both arms whip forward and down. Its swooshes on frames 1-2 came out brown, so the largest warm component on each (1394 and 2014 px, far bigger than any spine) was recoloured to the light slashes' lime. `hold` is the prop's bottom centre: on the street under the front claws for frames 0-4, following the hands up on 5-7, then the top of the joined claws, measured per frame on the carry loops. fill_pinholes, remove_specks (MAX 6). Acid Deluge, his Ultimate (`belial-s3-ult-charge/roar/pound/settle`, 256x256 from the base padded to 256 tall, `BL3_NATIVE`): charge is 13 frames at 20 fps (= `delugeCharge`), a seed 0 roll from the base: he plants and heaves while the neck gland swells into a huge, properly shaded sac. Roar is 9 frames at 18 fps from the last charge frame (seed 0, a silent roar at the sky): he rears straight up on his hind legs to the top of the frame (head at y=1-2, not clipped), sac squeezing, jaws thrown open at the sky. He's fully reared on frame 2, so `impact:2`, like Stage 1. Pound is a 4-frame pumping hold closed on the roar's last frame (seed 0). Settle is frames 2-7 of a roll back to the base (seed 0) plus the exact base, 7 frames at 14 fps: the sac shrinks, the jaws snap shut and he drops back into the hunch. `mouth` (136,18) is the midpoint of the jaw tips on every reared frame and the hold. `pound` (S+J) points at his Stage 3 heavy slam, as on Stages 1 and 2. Cleanup: remove_specks, bottom_align, fill_pinholes. With this, Belial's Stage 3 form has every move. `tools/pixellab_edit.py` wraps the Pixen edit endpoint used for Stage 1's base (Pixen candidates for Stage 3 were tried before the render arrived).
 
